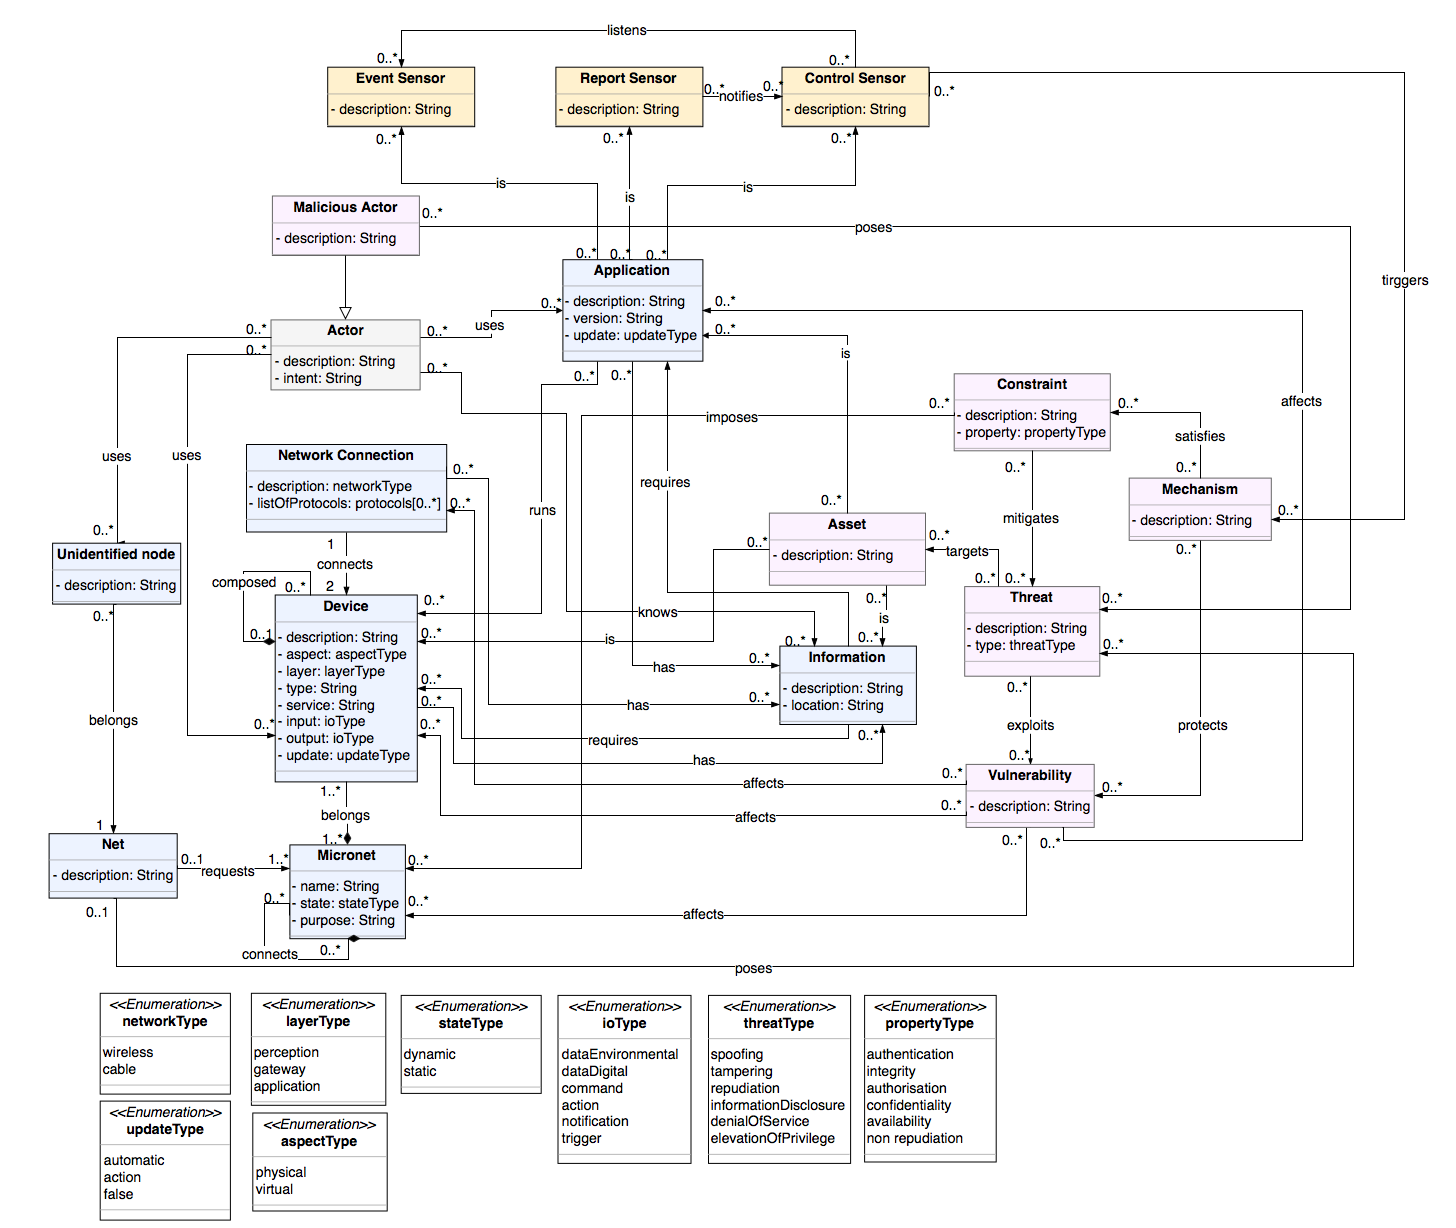
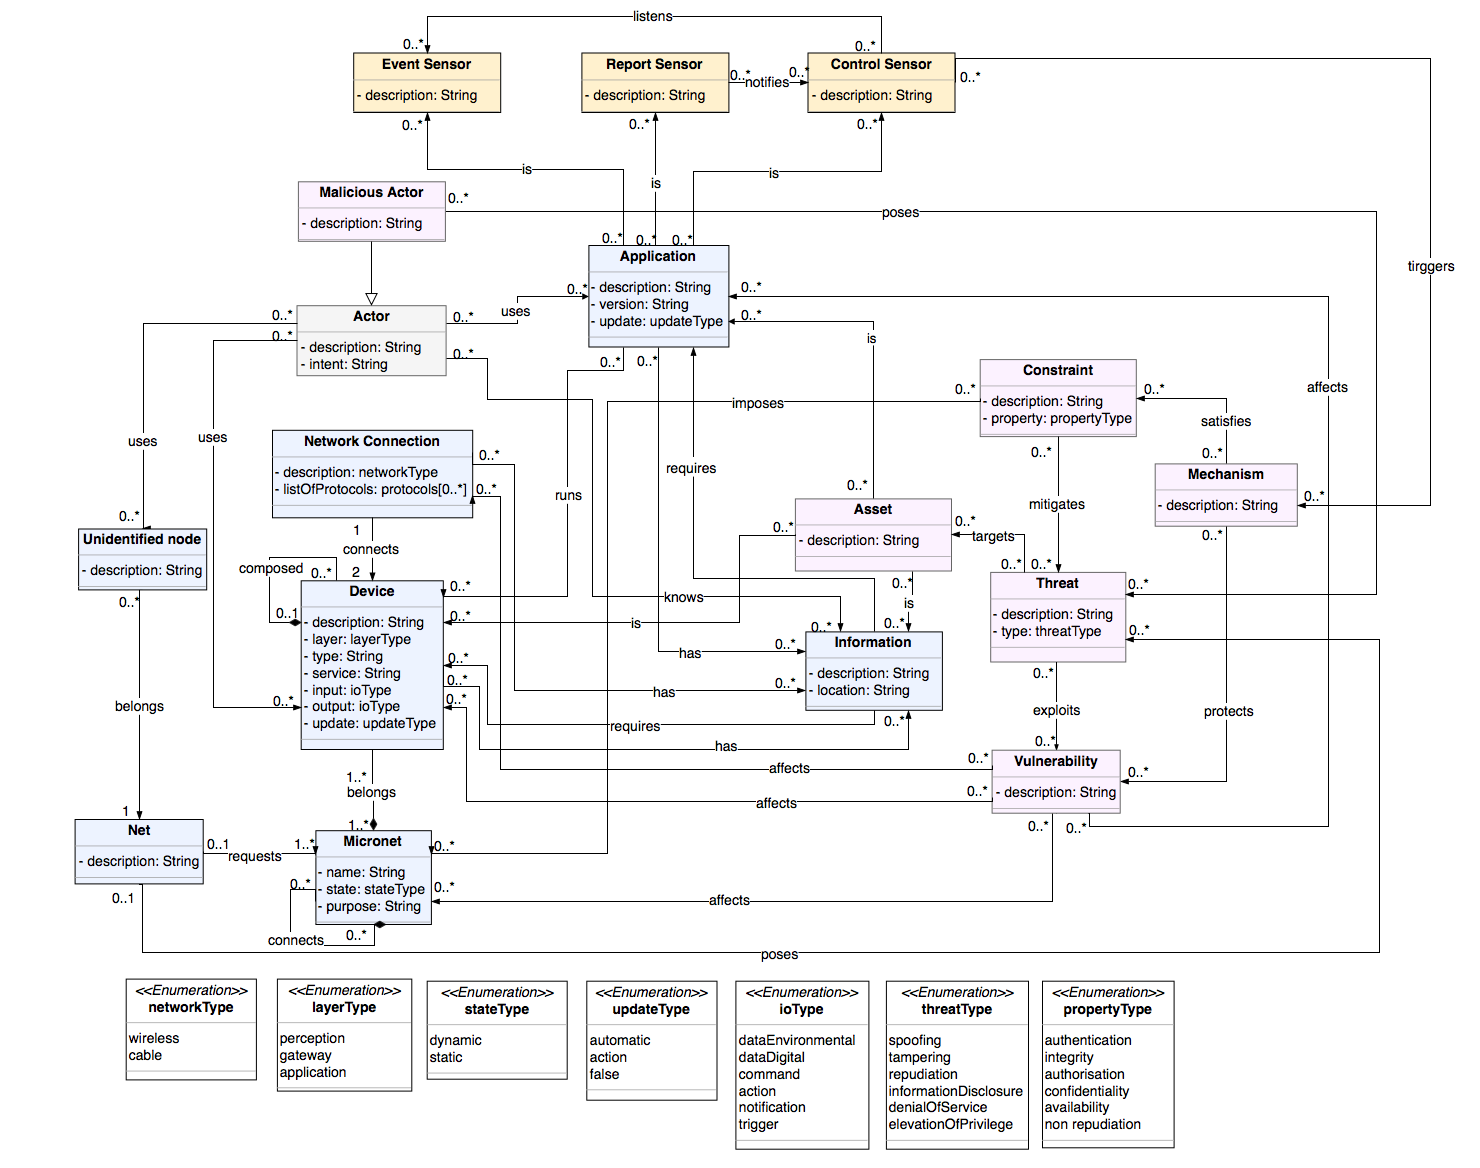
update implementation attributes

diff --git a/app/src/imp/addImpComponent.js b/app/src/imp/addImpComponent.js
@@ -21,7 +21,6 @@ module.exports = function addImpComponent (cy, event, nodeCounter) {
           label: `${component}`,
           info: {
             description: '',
-            aspect: '',
             layer: '',
             type: '',
             service: '',

diff --git a/app/src/imp/pcapImport.js b/app/src/imp/pcapImport.js
@@ -112,7 +112,6 @@ const createDevices = uniqueDevicesServices => {
       label: 'device',
       info: {
         description: '${deviceIp}',
-        aspect: '',
         layer: '',
         type: '',
         service: '',
